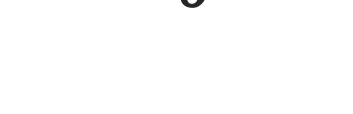
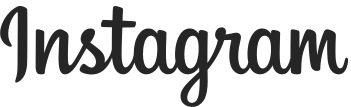
fixed the phone and input placeholder animation

Changed region(s): [[0.0, 0.0561, 0.9972, 1.0], [0.5128, 0.0, 0.5983, 0.0841]]

diff --git a/style.scss b/style.scss
@@ -23,28 +23,21 @@ body {
     font-family: -apple-system, BlinkMacSystemFont, 'Segoe UI', Roboto, Helvetica, Arial, sans-serif;
 }
 
-main {}
 
 main .logo {
     padding-inline: 2.3rem;
     margin-block: 3rem;
-    margin-bottom: 2rem;
+    margin-bottom: 1rem;
     display: flex;
-    justify-content: center;
+    justify-content: center; 
+
+    img{
+        object-fit: contain;
+        max-width: 200px;
+    }
 }
 
-main .logo::after {
-    padding-block: .5rem;
-    content: '';
-    width: 175px;
-    display: block;
-    height: 43px;
-    background-image: url("./assets/background.png");
-    background-position: 0px 90.4%;
-    background-repeat: no-repeat;
-    background-size: 200%;
-    display: inline-block;
-}
+
 
 main form {
     padding-inline: 2.5rem;
@@ -61,9 +54,9 @@ main form .formControl {
 
     input {
         outline: none;
-        font-size: 12px;
-        padding-top: 17px;
-        padding-bottom: 2px;
+        font-size: 13px;
+        padding-top: 19px;
+        padding-bottom: 4px;
         padding-inline: 10px;
         border: none;
         border-radius: 3px;
@@ -75,16 +68,22 @@ main form .formControl {
     span.placeholder {
         position: absolute;
         left: 9px;
-        top: 2px;
-        font-size: 10px;
+        top: 0px;
+        transform: translateY(100%);
+        font-size: 12px;
         color: #7b7878;
         white-space: nowrap;
         max-width: 78%;
         overflow: hidden;
         text-overflow: ellipsis;
-
+        transition: .2s ease;
         &::first-letter {
             text-transform: uppercase;
+        }
+
+        &.active{
+            top: 2px;
+            transform: translateY(0%);
         }
     }
 
@@ -119,9 +118,12 @@ main form .formControl:nth-child(2) {
         cursor: pointer;
         color: #262626;
         position: absolute;
-        transform: translateY(30%);
-        right: 10px;
-        padding-block: 4px;
+        top: 0;
+        bottom: 0;
+        right: 0;
+        padding: 4px;
+        display: flex;
+        align-items: center;
         text-transform: capitalize;
         font-weight: bolder;
         font-size: 13px;
@@ -225,14 +227,15 @@ main form .formControl:nth-child(2) {
         justify-content: center;
         gap: 10px;
 
+        height: 35px;
         a {
-            height: 50px;
             overflow: hidden;
         }
 
         img {
             max-width: 100%;
-            height: 35px;
+            max-height: 100%;
+            object-fit: contain;
         }
     }
 }
@@ -431,17 +434,14 @@ footer {
                 top: 0;
                 left: 0;
                 z-index: 2;
-                opacity: 0;
-                visibility: hidden;
-                transition: all ease 3s;
+                opacity: 0; 
+                transition: linear 5s;
                 &.active{
-                    animation: fadeIn 3s ease-in forwards;
+                    transition: linear 5s; 
+                    opacity: 1;
                 }
 
-                &.remove{
-                    animation: fadeout 3s ease-in forwards;
-
-                }
+                
             }
         }
 

diff --git a/style.css b/style.css
@@ -25,22 +25,14 @@ body {
 main .logo {
   padding-inline: 2.3rem;
   margin-block: 3rem;
-  margin-bottom: 2rem;
+  margin-bottom: 1rem;
   display: flex;
   justify-content: center;
 }
-
-main .logo::after {
-  padding-block: 0.5rem;
-  content: "";
-  width: 175px;
-  display: block;
-  height: 43px;
-  background-image: url("./assets/background.png");
-  background-position: 0px 90.4%;
-  background-repeat: no-repeat;
-  background-size: 200%;
-  display: inline-block;
+main .logo img {
+  -o-object-fit: contain;
+     object-fit: contain;
+  max-width: 200px;
 }
 
 main form {
@@ -55,9 +47,9 @@ main form .formControl {
 }
 main form .formControl input {
   outline: none;
-  font-size: 12px;
-  padding-top: 17px;
-  padding-bottom: 2px;
+  font-size: 13px;
+  padding-top: 19px;
+  padding-bottom: 4px;
   padding-inline: 10px;
   border: none;
   border-radius: 3px;
@@ -68,16 +60,22 @@ main form .formControl input {
 main form .formControl span.placeholder {
   position: absolute;
   left: 9px;
-  top: 2px;
-  font-size: 10px;
+  top: 0px;
+  transform: translateY(100%);
+  font-size: 12px;
   color: #7b7878;
   white-space: nowrap;
   max-width: 78%;
   overflow: hidden;
   text-overflow: ellipsis;
+  transition: 0.2s ease;
 }
 main form .formControl span.placeholder::first-letter {
   text-transform: uppercase;
+}
+main form .formControl span.placeholder.active {
+  top: 2px;
+  transform: translateY(0%);
 }
 main form .formControl:last-child {
   margin-top: 0.6rem;
@@ -102,9 +100,12 @@ main form .formControl:nth-child(2) span:nth-child(2) {
   cursor: pointer;
   color: #262626;
   position: absolute;
-  transform: translateY(30%);
-  right: 10px;
-  padding-block: 4px;
+  top: 0;
+  bottom: 0;
+  right: 0;
+  padding: 4px;
+  display: flex;
+  align-items: center;
   text-transform: capitalize;
   font-weight: bolder;
   font-size: 13px;
@@ -197,14 +198,16 @@ main form .formControl:nth-child(2) input {
   display: flex;
   justify-content: center;
   gap: 10px;
+  height: 35px;
 }
 .appdownload .imgwrapper a {
-  height: 50px;
   overflow: hidden;
 }
 .appdownload .imgwrapper img {
   max-width: 100%;
-  height: 35px;
+  max-height: 100%;
+  -o-object-fit: contain;
+     object-fit: contain;
 }
 
 footer {
@@ -368,16 +371,11 @@ footer select {
     left: 0;
     z-index: 2;
     opacity: 0;
-    visibility: hidden;
-    transition: all ease 3s;
+    transition: linear 5s;
   }
   .phone-container .wrapper .img-items img.active {
-    -webkit-animation: fadeIn 3s ease-in forwards;
-            animation: fadeIn 3s ease-in forwards;
-  }
-  .phone-container .wrapper .img-items img.remove {
-    -webkit-animation: fadeout 3s ease-in forwards;
-            animation: fadeout 3s ease-in forwards;
+    transition: linear 5s;
+    opacity: 1;
   }
   @-webkit-keyframes fadeIn {
     from {

diff --git a/index.html b/index.html
@@ -15,11 +15,11 @@
     <meta name="theme-color" content="#ffffff">
     <meta property="og:title" content="instagram clone">
     <meta property="og:site_name" content="city insta clone">
-    <meta property="og:url" content="https://cityblaise.github.io/instaclone/">
+    <meta property="og:url" content="https://city-insta-clone.netlify.app/">
     <meta property="og:description" content="">
     <meta property="og:type" content="website">
     <meta property="og:image"
-        content="https://cityblaise.github.io/instaclone/assets/favicon_package_v0.16_2/favicon-32x32.png">
+        content="https://city-insta-clone.netlify.app/assets/favicon_package_v0.16_2/android-chrome-192x192.png">
 
     <link rel="stylesheet" href="style.css">
 </head>
@@ -42,18 +42,19 @@
             <section>
                 <main>
                     <div class="border">
-                        <div class="logo"></div>
+                        <div class="logo">
+                            <img src="./assets/instagram.png" alt="Instagram">
+                        </div>
                         <form action="">
                             <div class="formControl">
                                 <span class="placeholder">num. téléphone, nom d'utilisateur ou email</span>
-                                <input placeholder="blacklivemater237"
-                                    aria-label="Num. téléphone, nom d’utilisateur ou e-mail" type="text" name="" id="">
+                                <input type="text" name="" id="">
                             </div>
                             <form action="">
                                 <div class="formControl">
                                     <span class="placeholder">mot de passe</span>
                                     <span class="show-password">afficher</span>
-                                    <input value="blacklivemater237" type="password" name="" id="password">
+                                    <input  type="password" name="" id="password">
                                 </div>
                                 <div class="formControl">
                                     <button type="button"><span>s</span>e connecter</button>

diff --git a/index.js b/index.js
@@ -1,6 +1,7 @@
 const FirstImage = document.getElementById("firstImg");
 const showpwdBtn = document.querySelector('.show-password');
 const inputPwd = document.getElementById('password');
+const inputs = document.querySelectorAll('.formControl input')
 let current = FirstImage;
 let previous = undefined;
 setInterval(() => { 
@@ -11,8 +12,39 @@ setInterval(() => {
 }, 10000);
 
 showpwdBtn.addEventListener('click',(e)=>{
-    showpwdBtn.innerText=(inputPwd.type =='password')?'Dissimuler':'Afficher';
+    showpwdBtn.innerText=(inputPwd.type =='password')?'Masquer':'Afficher';
     inputPwd.type=(inputPwd.type =='password')?'text':'password';
 });
 
-showpwdBtn.addEventListener
+
+//inputs
+
+inputs.forEach(element => {
+    element.addEventListener('blur',(e)=>{
+        e.currentTarget.placeholder = "";
+        if(e.currentTarget.value == ""){
+            e.currentTarget.parentElement.querySelector('.placeholder')
+            .classList.remove("active");
+        }
+    })
+});
+
+
+
+inputs[0].addEventListener('focus', (e) => {
+    e.currentTarget.placeholder = "blacklivemater237";
+     if(e.currentTarget.value == ""){
+        e.currentTarget.parentElement.querySelector('.placeholder')
+        .classList.add("active");
+    }
+});
+
+inputs[1].addEventListener('focus', (e) => {
+    e.currentTarget.placeholder = "**************";
+    if(e.currentTarget.value == ""){
+        e.currentTarget.parentElement.querySelector('.placeholder')
+        .classList.add("active");
+    }
+});
+
+//---------------------------------------------------------------------
